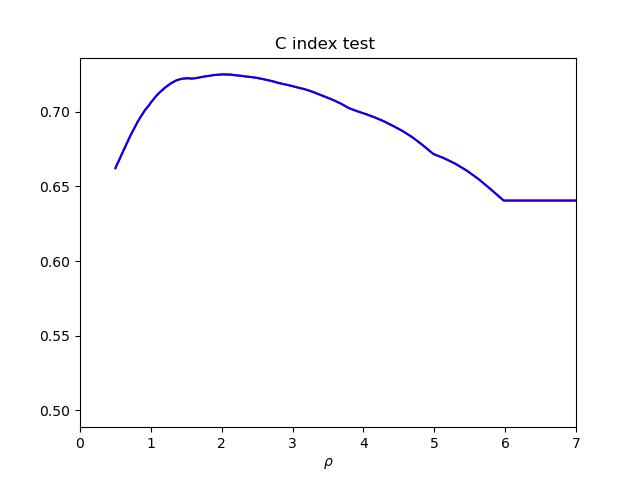
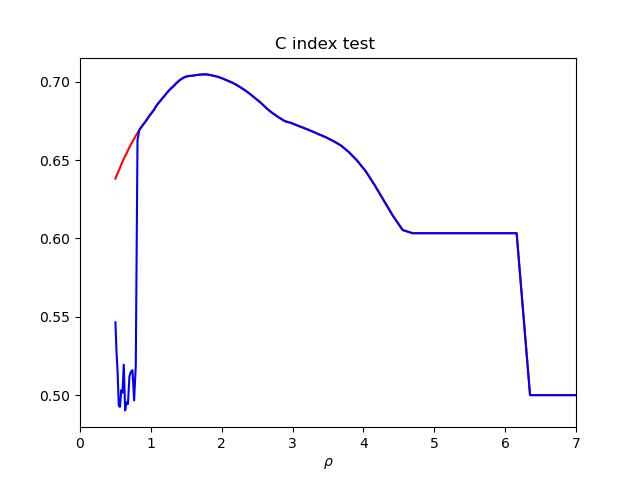
update

diff --git a/routines/cox_routines.py b/routines/cox_routines.py
@@ -7,30 +7,21 @@ from routines.funcs import c_index, na_est, breslow_est
 
 #class that contains function to fit the cox model 
 class cox_model:
-    def __init__(self, p, vals, ratio):
-        self.p = p
+    def __init__(self, vals, ratio):
         self.rho = vals
         self.ratio = ratio
         self.alphas = vals * ratio
         self.etas = vals * (1.0 -ratio)
         self.l = len(vals)
 
-    def fit(self, t, c, x, method, eps = 0.5, verb_flag = False, warm_start_amp = False, tolerance = 1.0e-8):
+    def get_dimensions(self, t, c, x):
         idx = np.argsort(t)
+        self.p = len(x[0,:])
         self.t = np.array(t)[idx]
         self.c = np.array(c,int)[idx]
         self.x = x[[idx],:][0,:,:]
         self.n = len(t)
-        cox_model.compute_null(self)
         self.zeta = self.p / self.n
-        beta = np.zeros(self.p)
-        tau = 0.0
-        hat_tau = 0.0
-        xi = self.x @ beta
-        beta_in = np.zeros(self.p)#rnd.normal(loc = 0, scale = 1  / self.p, size = self.p)
-        xi_in = self.x @ beta#rnd.normal(loc = 0, scale = 1 / self.p, size = self.n)
-        hat_tau_in = 0.0#rnd.normal(loc = 0, scale = 1 / self.p)
-        tau_in = 0.0#rnd.normal(loc = 0, scale = 1 / self.p)        
         self.betas = np.zeros((self.l,self.p))
         self.flags = np.zeros(self.l)
         self.hat_taus = np.zeros(self.l)
@@ -39,46 +30,53 @@ class cox_model:
         self.vs = np.zeros(self.l)
         self.hat_ws = np.zeros(self.l)
         self.hat_vs = np.zeros(self.l)
-        self.dev_diffs = np.zeros(self.l)
+        self.rs_loo_hc = np.zeros(self.l)
         self.times = np.zeros(self.l)
+
+    def initialize(self):
+        self.beta = np.zeros(self.p)
+        self.tau = 0.0
+        self.hat_tau = 0.0
+        self.xi = self.x @ self.beta
+
+    def fit(self, t, c, x, method, eps = 0.5, verb_flag = False, warm_start_amp = False, tolerance = 1.0e-8):
+        cox_model.get_dimensions(self, t, c, x)
+        cox_model.initialize(self)
         for j in range(self.l):
             eta = self.etas[j]
             alpha = self.alphas[j]
             if(method == 'cd'):
-                beta, hat_tau, tau, flag, time = cd_cox(eta, alpha, self.c, self.x, beta, tau, tol = tolerance, verbose = verb_flag)
+                self.beta, self.hat_tau, self.tau, flag, time = cd_cox(eta, alpha, self.c, self.x, self.beta, self.tau, tol = tolerance, verbose = verb_flag)
             if(method == 'amp'):
                 if(warm_start_amp == False):
-                    beta = beta_in
-                    xi = xi_in
-                    tau = tau_in
-                    hat_tau = hat_tau_in
-                beta, xi, hat_tau, tau, flag, time = amp_cox(eta, alpha, self.c, self.x, beta, xi, tau, hat_tau, eps, tol = tolerance, verbose = verb_flag)      
+                    cox_model.initialize(self)
+                self.beta, self.xi, self.hat_tau, self.tau, flag, time = amp_cox(eta, alpha, self.c, self.x, self.beta, self.xi, self.tau, self.hat_tau, eps, tol = tolerance, verbose = verb_flag)      
             self.flags[j] = flag
-            self.betas[j,:] = beta
-            self.taus[j] = tau
-            self.hat_taus[j] = hat_tau
+            self.betas[j,:] = self.beta
+            self.taus[j] = self.tau
+            self.hat_taus[j] = self.hat_tau
             self.times[j] = time
-            self.ws[j], self.vs[j], self.hat_ws[j], self.hat_vs[j], self.dev_diffs[j] = cox_model.compute_observables(self, beta, hat_tau, tau)
+            self.ws[j], self.vs[j], self.hat_ws[j], self.hat_vs[j], self.rs_loo_hc[j] = cox_model.compute_observables(self)
         return 
     
-    def compute_observables(self, beta, hat_tau, tau):
-        lp = self.x @ beta
+    def compute_observables(self):
+        lp = self.x @ self.beta
         elp = np.exp(lp)
         H = na_est(self.c, elp)
         score = (H * elp - self.c)
-        db_beta = beta - hat_tau * np.transpose(self.x) @ score
-        hat_v = hat_tau * np.sqrt( np.mean( score ** 2 ) / self.zeta)
-        hat_w = np.sqrt(max(np.mean(db_beta**2) - hat_v**2, 0))
-        gamma = np.mean((lp + tau * score)**2)
-        if(tau == 0.0):
+        db_beta = self.beta - self.hat_tau * np.transpose(self.x) @ score
+        hat_v = self.hat_tau * np.sqrt( np.mean( score ** 2 ) / self.zeta)
+        hat_w = np.sqrt(max(np.mean(db_beta ** 2) - (hat_v ** 2), 0))
+        lp_loo = lp + self.tau * score
+        gamma = np.mean(lp_loo ** 2)
+        if(self.tau == 0.0):
             w = 0.0
         else:
-            w = (np.mean(lp * (lp + tau * score)) - gamma * (1.0 - self.zeta * tau / hat_tau)) / (hat_w * self.zeta * tau /hat_tau)
-        v = np.sqrt(max(gamma - w**2, 0))
-        h = breslow_est(self.c, elp)
-        loss_train = sum(H * elp - self.c * lp) - sum([np.log(h[i]) for i in range(self.n) if self.c[i] != 0]) 
-        dev_diff = np.abs(loss_train - self.loss_null) / self.loss_null
-        return w, v, hat_w, hat_v, dev_diff 
+            x = self.zeta * self.tau / self.hat_tau
+            w = (np.mean(lp * lp_loo) - gamma * (1.0 - x)) / (hat_w * x)
+        v = np.sqrt(max(gamma - (w ** 2), 0))
+        rs_loo_hc = c_index(self.t, self.c, lp_loo)
+        return w, v, hat_w, hat_v, rs_loo_hc
     
     def compute_Harrel_c_train(self):
         self.hc_index_train = np.array([c_index(self.t, self.c, self.x @ self.betas[j, :]) for j in range(self.l)], float)
@@ -87,13 +85,7 @@ class cox_model:
     def compute_Harrel_c_test(self, T_test, C_test, X_test):
         self.hc_index_test = np.array([c_index(T_test, C_test, X_test @ self.betas[j, :]) for j in range(self.l)], float)
         return  
-    
-    def compute_null(self):
-        self.h_null = breslow_est(self.c, np.ones(self.n))
-        self.H_null = na_est(self.c, np.ones(self.n))
-        self.loss_null =  sum(self.H_null) - sum([np.log(self.h_null[i]) for i in range(self.n) if self.c[i] != 0])
-        s_null = (self.H_null - self.c) @ self.x 
-        return 
+
 
     
 

diff --git a/experiments_routines.py b/experiments_routines.py
@@ -14,10 +14,10 @@ def run_rs(values, ratio, delta, zeta, gm, m):
         cox_rs.alpha = values[l] * ratio
         cox_rs.eta = values[l] * (1-ratio)
         cox_rs.solve()
-        res = np.array([values[l], cox_rs.w, cox_rs.v, cox_rs.tau, cox_rs.hat_w, cox_rs.hat_v, cox_rs.hat_tau], float)
+        res = np.array([values[l], cox_rs.w, cox_rs.v, cox_rs.tau, cox_rs.hat_w, cox_rs.hat_v, cox_rs.hat_tau, cox_rs.rs_loo_hc], float)
         print(res)
         metrics[l,:] = res
-    df = pd.DataFrame(metrics, columns=['vals', 'w', 'v', 'tau', 'hat_w', 'hat_v', 'hat_tau'])
+    df = pd.DataFrame(metrics, columns=['vals', 'w', 'v', 'tau', 'hat_w', 'hat_v', 'hat_tau', 'rs_loo_hc'])
     return df
     
 
@@ -30,9 +30,9 @@ def run_sim(p, n, values, ratio, GM, method, m, parallel_flag = False, fit_tol =
         cox_m.fit(T, C, X, method, verb_flag = True, tolerance = fit_tol)
         toc = time.time()
         print('experiment '+str(counter)+ ' time elapsed = '+str((toc-tic)/60))
-        return cox_m.ws, cox_m.vs, cox_m.taus, cox_m.hat_ws, cox_m.hat_vs, cox_m.hat_taus, cox_m.flags, cox_m.times
+        return cox_m.ws, cox_m.vs, cox_m.taus, cox_m.hat_ws, cox_m.hat_vs, cox_m.hat_taus, cox_m.flags, cox_m.times, cox_m.rs_loo_hc
     
-    cox_m = cox_model(p, values, ratio)
+    cox_m = cox_model(values, ratio)
 
     if(parallel_flag):
         tic = time.time()
@@ -46,6 +46,7 @@ def run_sim(p, n, values, ratio, GM, method, m, parallel_flag = False, fit_tol =
         hat_tau = np.stack(t_df.iloc[:, 5].to_numpy())
         flags = np.stack(t_df.iloc[:, 6].to_numpy())
         times = np.stack(t_df.iloc[:, 7].to_numpy())
+        rs_loo_hc = np.stack(t_df.iloc[:, 8].to_numpy())
         toc = time.time()
         print('total elapsed time = ' + str((toc-tic)/60))
 
@@ -58,9 +59,10 @@ def run_sim(p, n, values, ratio, GM, method, m, parallel_flag = False, fit_tol =
         hat_tau = np.zeros((m, len(values)))
         flags = np.zeros((m, len(values)))
         times = np.zeros((m, len(values)))
+        rs_loo_hc = np.zeros((m, len(values)))
         big_tic = time.time()
         for i in range(m):
-            w[i,:], v[i,:], tau[i,:], hat_w[i,:], hat_v[i,:], hat_tau[i,:], flags[i,:], times[i,:] = experiment(i, GM, cox_m, method, n)
+            w[i,:], v[i,:], tau[i,:], hat_w[i,:], hat_v[i,:], hat_tau[i,:], flags[i,:], times[i,:], rs_loo_hc[i,:] = experiment(i, GM, cox_m, method, n)
         big_toc = time.time()
         print('total elapsed time = ' + str((big_toc-big_tic)/60))
 
@@ -82,7 +84,9 @@ def run_sim(p, n, values, ratio, GM, method, m, parallel_flag = False, fit_tol =
         'flags_mean' : np.mean(flags, axis = 0),
         'flags_std' : np.std(flags, axis = 0),
         'times_mean' : np.mean(times, axis = 0),
-        'times_std' : np.std(times, axis = 0)
+        'times_std' : np.std(times, axis = 0),
+        'rs_loo_hc_mean' : np.mean(rs_loo_hc, axis = 0),
+        'rs_loo_hc_std' : np.std(rs_loo_hc, axis = 0)
     }
     df = pd.DataFrame(data)
     return df 

diff --git a/routines/cox_cd.py b/routines/cox_cd.py
@@ -9,23 +9,23 @@ warnings.filterwarnings('ignore')
 vl = np.vectorize(lambertw)
 
 
+
 @njit
-def cd_update(x, hess, c, alpha, eta, beta0):
-    lp0 = x @ beta0
+def cd_update(ddg, dg, x, alpha, eta, beta0):
     beta1 = beta0
+    hess = np.transpose(x) @ np.diag(ddg) @ x
+    score = dg @ x
     p = len(beta0)
     for k in range(p):
-        lp = x @ beta1
-        I_k = x[:, k] @ (hess * x[:,k])
-        xi_k = x[:, k] @ (hess * (lp -lp0))
-        s_k = x[:, k] @ (hess - c)
-        phi = s_k + xi_k - I_k * beta1[k]
+        I_k = hess[k, k]
+        xi_k =  hess[k, :] @ (beta1 - beta0)
+        s_k = score[k]
+        phi =  I_k * beta1[k] - s_k - xi_k
         tau = I_k + eta
-        beta1[k] = st(-phi, alpha)/tau
+        beta1[k] = st(phi, alpha)/tau
     return beta1
 
-
-def cd_cox(eta, alpha, c, x, beta0, tau0,  max_its = 300, tol = 1.0e-8, verbose = False):
+def cd_cox(eta, alpha, c, x, beta0, tau0,  max_its = 300, tol = 1.0e-6, verbose = False):
     its = 0
     err = 1.0
     flag = True
@@ -36,11 +36,13 @@ def cd_cox(eta, alpha, c, x, beta0, tau0,  max_its = 300, tol = 1.0e-8, verbose 
     H0 = na_est(c, elp)
     tic = time.time()
     while(err >= tol and flag):
-        hess = H0 * elp
-        beta = cd_update(x, hess, c, alpha, eta, beta0)
+        ddg = H0 * elp
+        dg = ddg - c
+        beta = cd_update(ddg, dg, x, alpha, eta, beta0)
+        # beta = cd_update(x, ddg, c, alpha, eta, beta0)
         elp =  np.exp(x @ beta)
         H = na_est(c, elp)
-        err =  np.sqrt(max((beta - beta0) ** 2) + max((H - H0) ** 2) )
+        err =  np.sqrt(max((beta - beta0) ** 2) + max((H - H0) ** 2))
         beta0 = beta
         H0 = H
         its = its + 1 
@@ -56,9 +58,9 @@ def cd_cox(eta, alpha, c, x, beta0, tau0,  max_its = 300, tol = 1.0e-8, verbose 
     if(flag and verbose):
         print('CD alpha = ' + str(alpha) + ', time elapsed = ' + str(elapsed_time) + ', its =' + str(its) )
     av_norm0_beta = np.mean(np.array(np.abs(beta0) > tol, int))
-    tau = compute_tau(zeta * av_norm0_beta , hess, zeta * eta, tau0)
+    tau = compute_tau(zeta * av_norm0_beta , ddg, zeta * eta, tau0)
     if(tau == 0.0):
-        hat_tau = zeta / np.mean(hess)
+        hat_tau = zeta / np.mean(H * elp)
     else:
         hat_tau =  tau / (av_norm0_beta - eta * tau)
     return beta0, hat_tau, tau, flag, elapsed_time
@@ -74,3 +76,4 @@ def compute_tau(z, x, gamma, y):
         f = 1.0 - z - np.mean(1.0 / (1.0 + x * y)) + gamma * y
         err = abs(f)
     return y
+

diff --git a/test_cox.py b/test_cox.py
@@ -21,7 +21,7 @@ def configuration_AMP(p, zeta, nu, theta0):
 
 p = 2000
 zeta = 2.0
-nu = 0.005
+nu = 0.01
 theta0 = 1.0
 phi0 = -np.log(2)
 rho0 = 2.0
@@ -40,7 +40,7 @@ T, C, X = gen_mod.gen(n)
 T_test, C_test, X_test = gen_mod.gen(n)
 
 #fit with Cox AMP
-coxm = cox_model(p, vals, ratio)
+coxm = cox_model(vals, ratio)
 coxm.fit(T, C, X, 'amp', eps = 0.9, tolerance = 1.0e-7, verb_flag= True)
 betas_amp = coxm.betas
 flags_amp = coxm.flags
@@ -48,7 +48,7 @@ coxm.compute_Harrel_c_train()
 train_err_amp = coxm.hc_index_train
 coxm.compute_Harrel_c_test(T_test, C_test, X_test)
 test_err_amp = coxm.hc_index_test
-dev_diff_amp = coxm.dev_diffs
+
 
 #fit with Cox CD
 coxm.fit(T, C, X, 'cd', verb_flag= True)
@@ -57,7 +57,7 @@ coxm.compute_Harrel_c_train()
 train_err_cd = coxm.hc_index_train
 coxm.compute_Harrel_c_test(T_test, C_test, X_test)
 test_err_cd = coxm.hc_index_test
-dev_diff_cd = coxm.dev_diffs
+
 
 mse = np.sqrt(np.mean((betas_cd - betas_amp)**2, axis = 1))#/ np.sqrt(np.sum((betas_cd)**2, axis = 1))
 
@@ -97,13 +97,6 @@ plt.xlabel(r'$\rho$')
 plt.xlim(left = 0.0, right = 7.0)
 plt.savefig('figures/c_ind_test' + fmt + '.jpg')
 
-plt.figure()
-plt.title('Deviance difference ')
-plt.plot(vals, dev_diff_amp, 'r-')
-plt.plot(vals, dev_diff_cd, 'b-')
-plt.xlabel(r'$\rho$')
-plt.xlim(left = 0.0, right = 7.0)
-plt.savefig('figures/dev_diff' + fmt + '.jpg')
 
 fig = plt.figure()
 ax1 = fig.add_subplot(211)

diff --git a/sim_plots.py b/sim_plots.py
@@ -126,4 +126,13 @@ plt.errorbar(sim_df['vals'],sim_df['times_mean'],yerr =sim_df['times_std'],fmt =
 plt.ylabel('Elapsed Time in minutes')
 plt.xlabel(r'$\rho$')
 plt.savefig(directory+'elapsed_time' + fmt +'method_'+method+'.jpg')
+
+
+
+plt.figure()
+plt.errorbar(sim_df['vals'],sim_df['rs_loo_hc_mean'],yerr =sim_df['rs_loo_hc_std'],fmt = 'k.', capsize = 3)
+ax1.plot(rs_df['vals'],rs_df['rs_loo_hc'],'r-')
+plt.ylabel('HC (RS cross validation)')
+plt.xlabel(r'$\rho$')
+plt.savefig(directory+'rs_loo_hc' + fmt +'method_'+method+'.jpg')
 plt.show()

diff --git a/routines/cox_rs_routines.py b/routines/cox_rs_routines.py
@@ -2,7 +2,7 @@ import numpy as np
 import numpy.random as rnd
 from scipy.special import lambertw
 from scipy.special import erf
-from routines.funcs import na_est
+from routines.funcs import na_est, c_index
 import warnings
 warnings.filterwarnings('ignore')
 
@@ -78,6 +78,8 @@ class rs_cox:
         self.v = v
         self.tau = tau
         self.xi = xi
+        lp_loo = self.w * self.z0 + self.v * self.q
+        self.rs_loo_hc = c_index(self.t, self.c, lp_loo)
         return 
     
 
